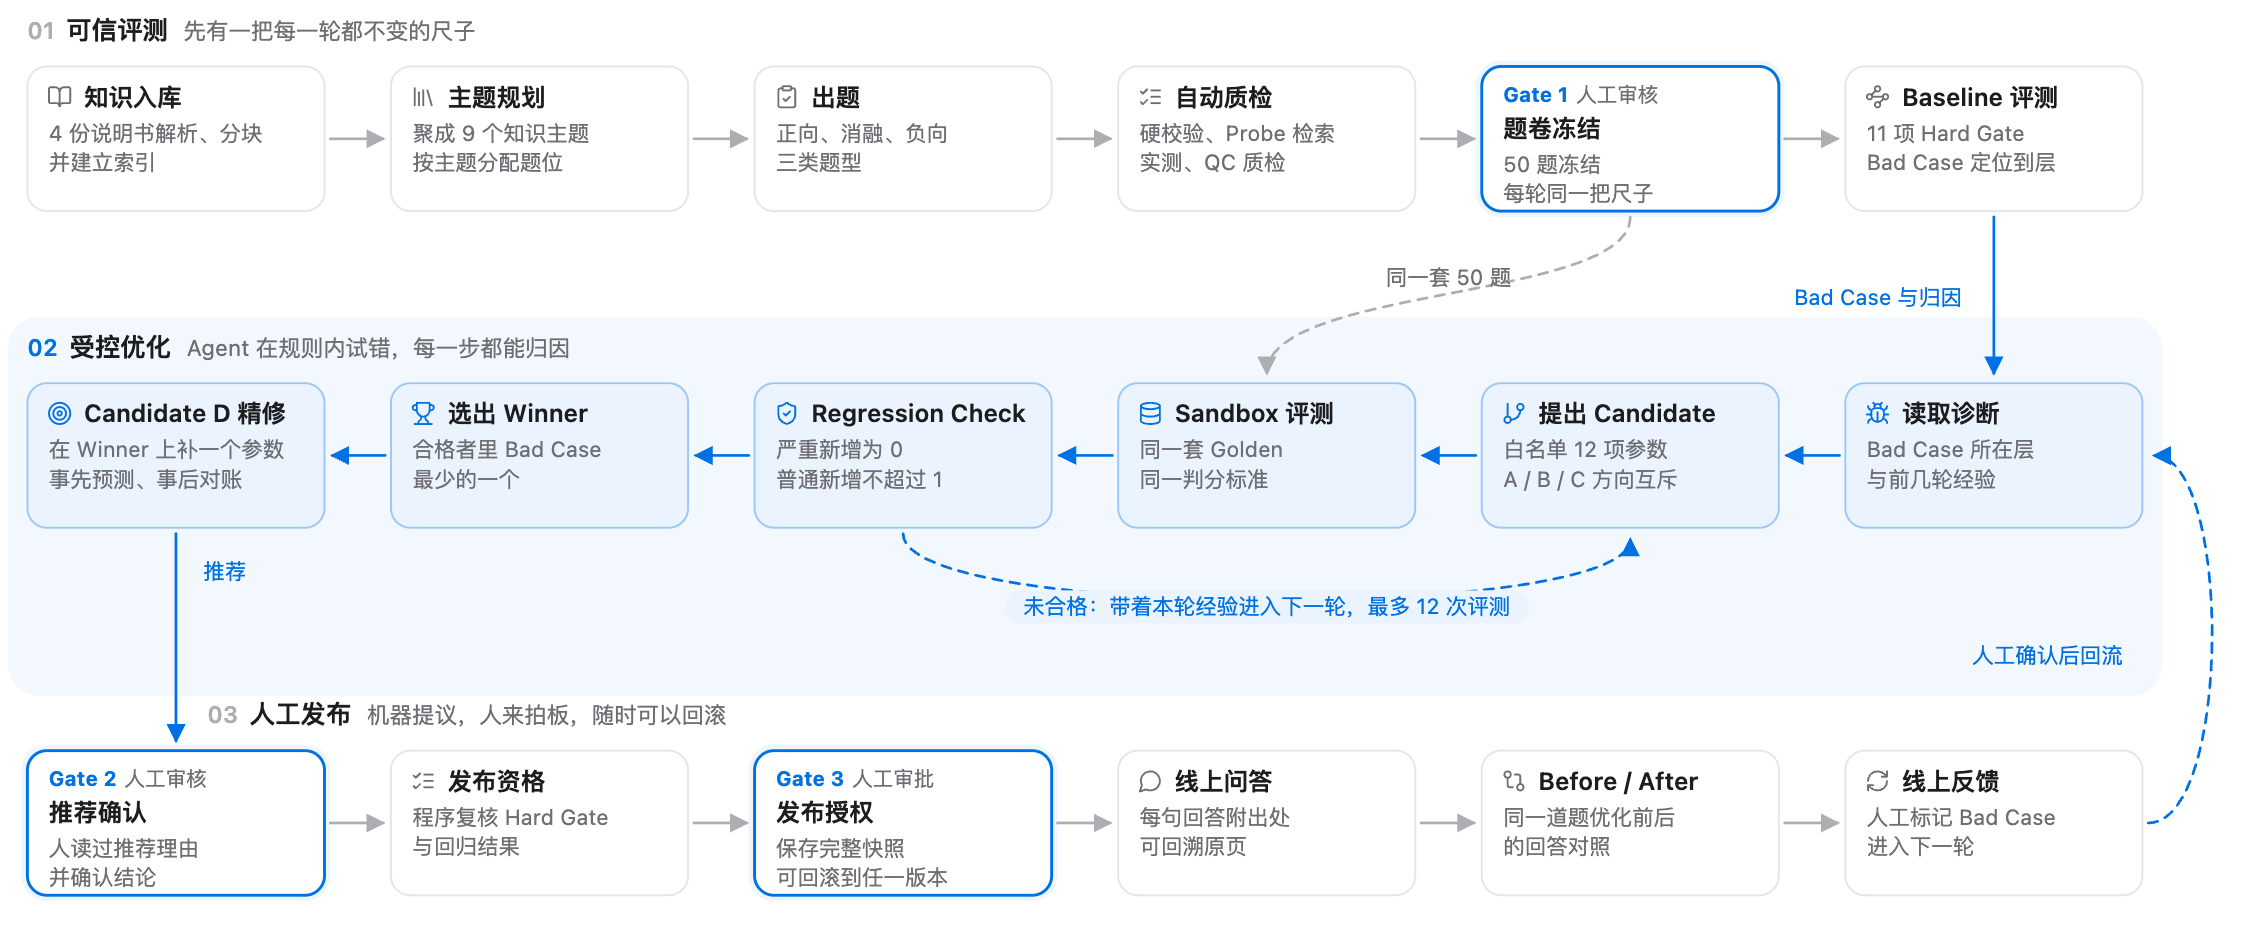
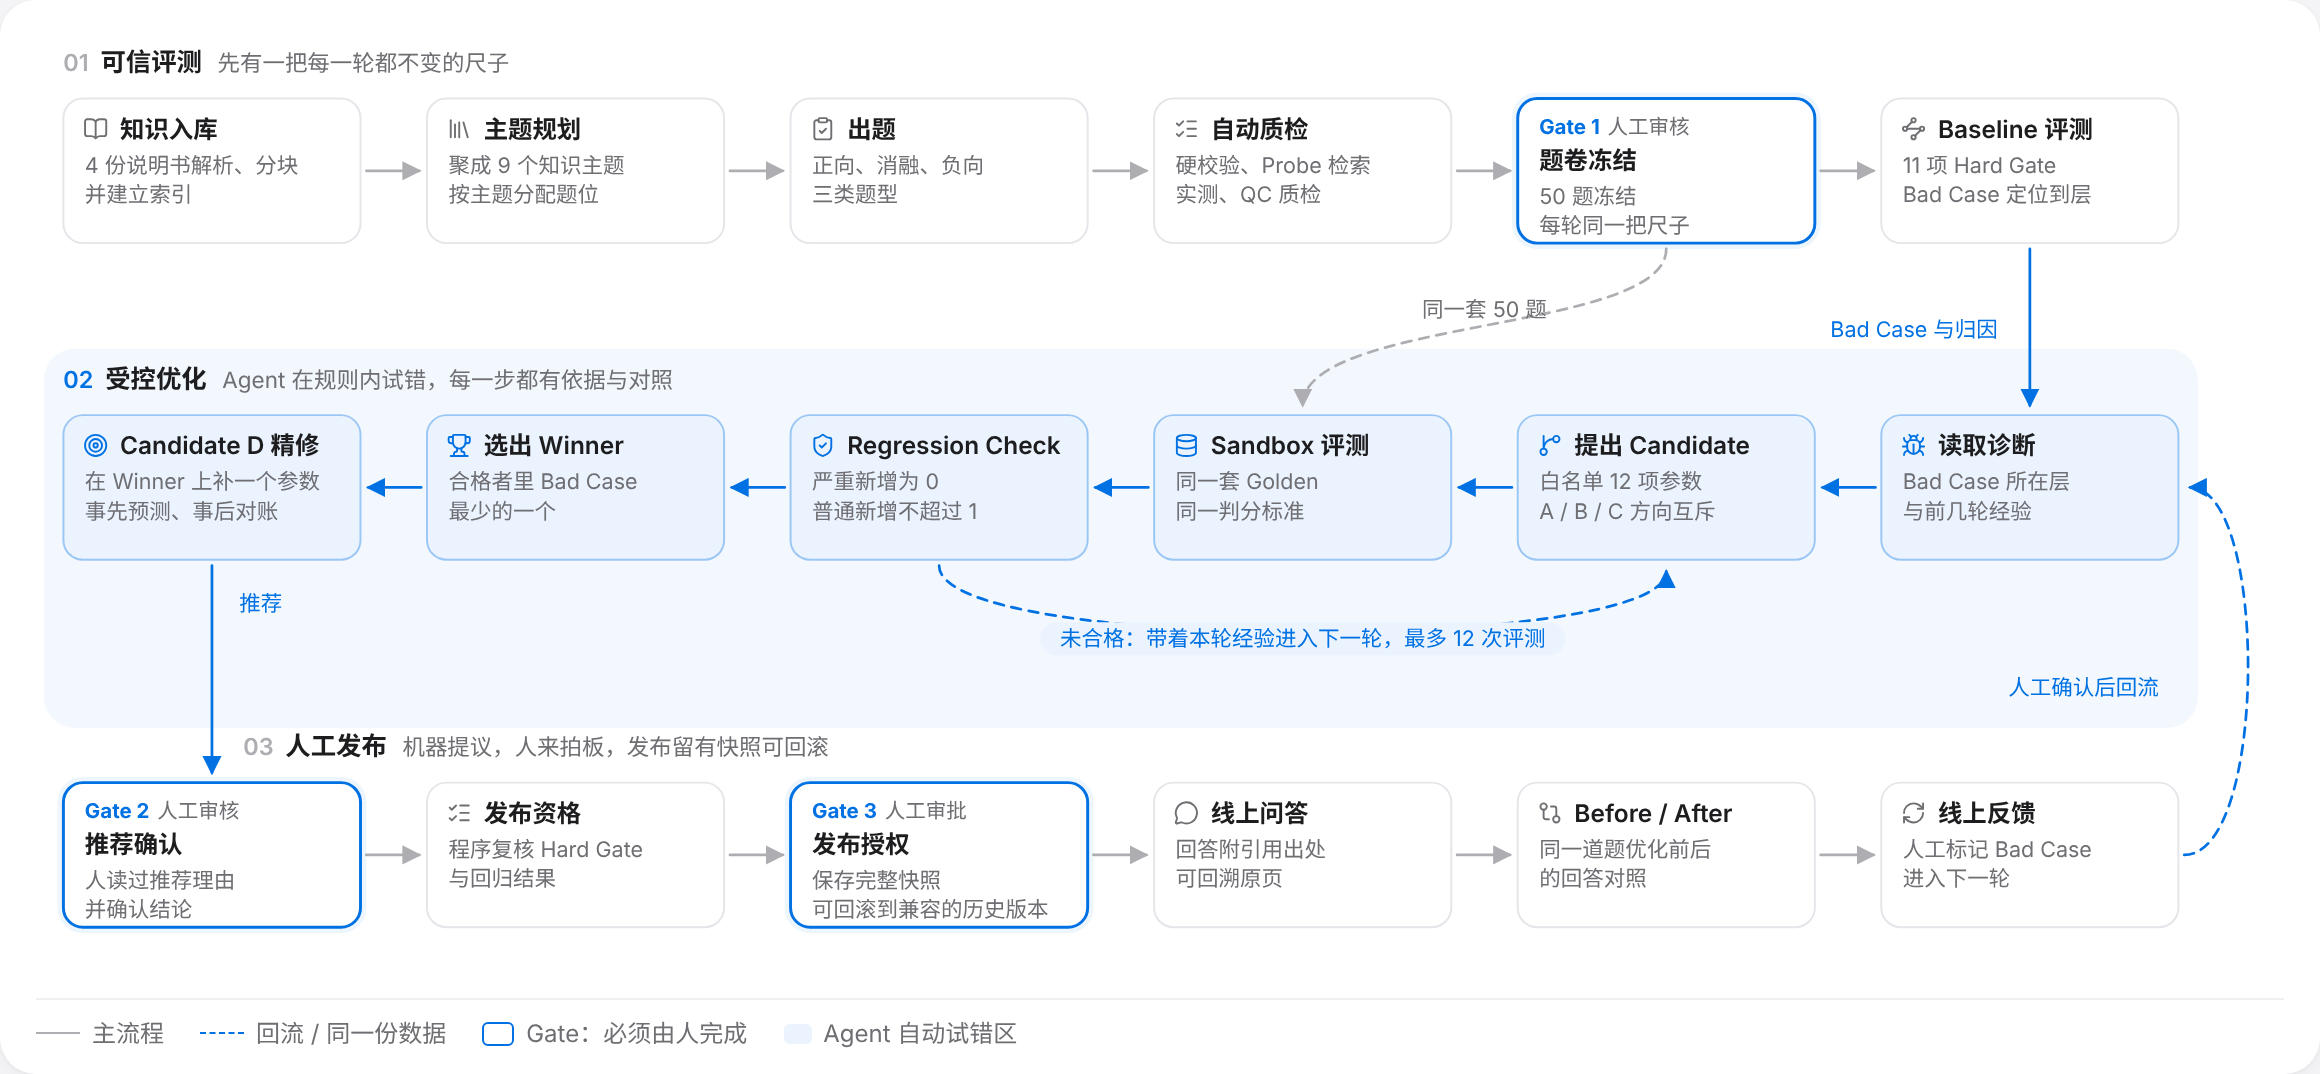
总指挥：架构图三处表述按 028c 核对结果收紧（依据与对照、兼容版本回滚、引用出处） (No SPEC Change)
Claude-Session: https://claude.ai/code/session_01Fhm1JCkRRqV7tWfwhMDuUE

diff --git a/frontend/src/ui/architecture/BusinessArchitecture.tsx b/frontend/src/ui/architecture/BusinessArchitecture.tsx
@@ -34,8 +34,8 @@ const ROW2: N[] = [
 const ROW3: N[] = [
   { icon: "report", title: "推荐确认", lines: ["人读过推荐理由", "并确认结论"], gate: "Gate 2", gateRole: "人工审核" },
   { icon: "checks", title: "发布资格", lines: ["程序复核 Hard Gate", "与回归结果"] },
-  { icon: "release", title: "发布授权", lines: ["保存完整快照", "可回滚到任一版本"], gate: "Gate 3", gateRole: "人工审批" },
-  { icon: "verify", title: "线上问答", lines: ["每句回答附出处", "可回溯原页"] },
+  { icon: "release", title: "发布授权", lines: ["保存完整快照", "可回滚到兼容的历史版本"], gate: "Gate 3", gateRole: "人工审批" },
+  { icon: "verify", title: "线上问答", lines: ["回答附引用出处", "可回溯原页"] },
   { icon: "compare", title: "Before / After", lines: ["同一道题优化前后", "的回答对照"] },
   { icon: "loop", title: "线上反馈", lines: ["人工标记 Bad Case", "进入下一轮"] },
 ];
@@ -54,8 +54,8 @@ export function BusinessArchitecture(_: { lanes?: unknown } = {}) {
     {/* 受控优化区底色 */}
     <rect x={4} y={Y2 - 34} width={right + 6} height={H + 120} rx={16} fill={C.tint} opacity={0.55} />
     <Lane x={X0} y={20} index="01" name="可信评测" note="先有一把每一轮都不变的尺子" />
-    <Lane x={X0} y={Y2 - 14} index="02" name="受控优化" note="Agent 在规则内试错，每一步都能归因" accent />
-    <Lane x={X0 + W / 2 + 16} y={Y3 - 14} index="03" name="人工发布" note="机器提议，人来拍板，随时可以回滚" />
+    <Lane x={X0} y={Y2 - 14} index="02" name="受控优化" note="Agent 在规则内试错，每一步都有依据与对照" accent />
+    <Lane x={X0 + W / 2 + 16} y={Y3 - 14} index="03" name="人工发布" note="机器提议，人来拍板，发布留有快照可回滚" />
 
     {/* 第一行箭头 */}
     {xs.slice(0, 5).map((x, i) => <Wire key={`r1-${i}`} id={ID} d={`M${x + W + 3} ${Y1 + H / 2} H${xs[i + 1] - 4}`} />)}

diff --git a/frontend/src/ui/knowledge/KnowledgeFlow.tsx b/frontend/src/ui/knowledge/KnowledgeFlow.tsx
@@ -103,7 +103,7 @@ export const SAMPLE_KNOWLEDGE_LANES: FlowLane[] = [
       { icon: "network", label: "混合检索", value: "召回 24 段", detail: "向量与 BM25 分数按权重融合", tunable: true },
       { icon: "rerank", label: "Rerank 重排", value: "重排 24 段", detail: "qwen3-rerank 重排，再按 MinScore 过滤", tunable: true },
       { icon: "merge", label: "补齐 Parent", value: "取前 6 个", detail: "Child 换成所在 Parent，去重后取 Top-K", tunable: true },
-      { icon: "cite", label: "生成并引用", value: "Thinking High", detail: "每句标出处，可回溯到说明书原页", tunable: true },
+      { icon: "cite", label: "生成并引用", value: "Thinking High", detail: "回答附引用出处，可回溯说明书原页", tunable: true },
     ],
   },
 ];
